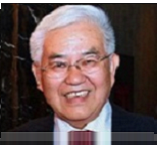
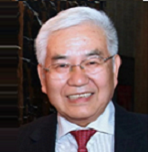
更新

diff --git a/css/nasac_fmac.css b/css/nasac_fmac.css
@@ -640,7 +640,7 @@ top:0
 }
 
 .photo8{
-	background-image:url(../images/photo/88.png)
+	background-image:url(../images/photo/888.png)
 }
 
 .photo9{
